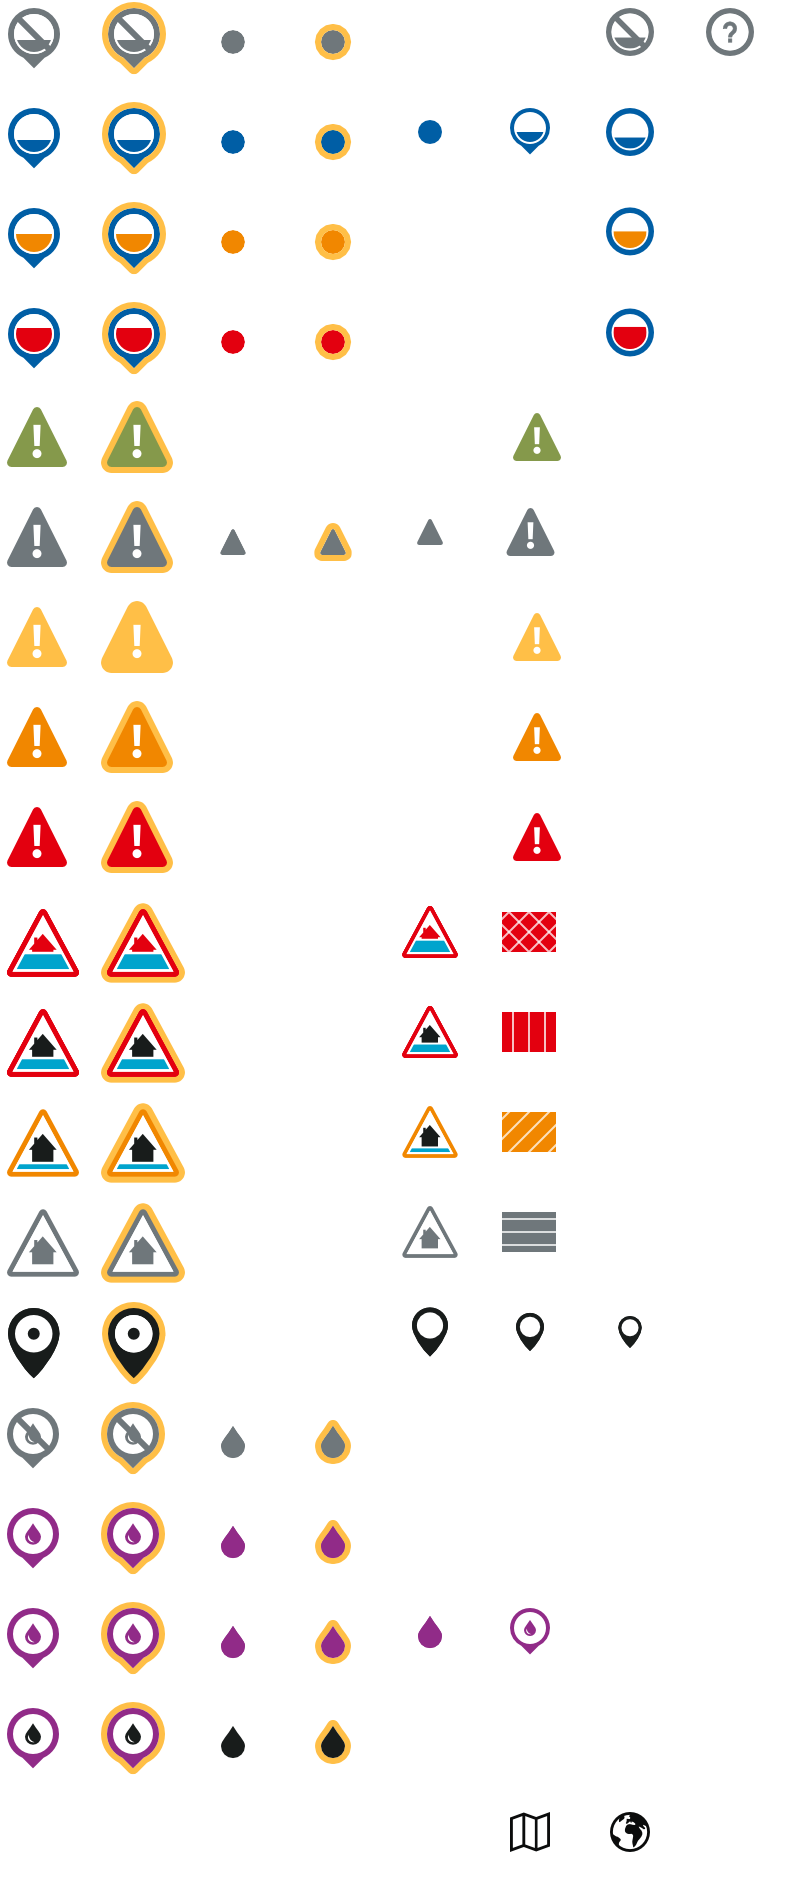
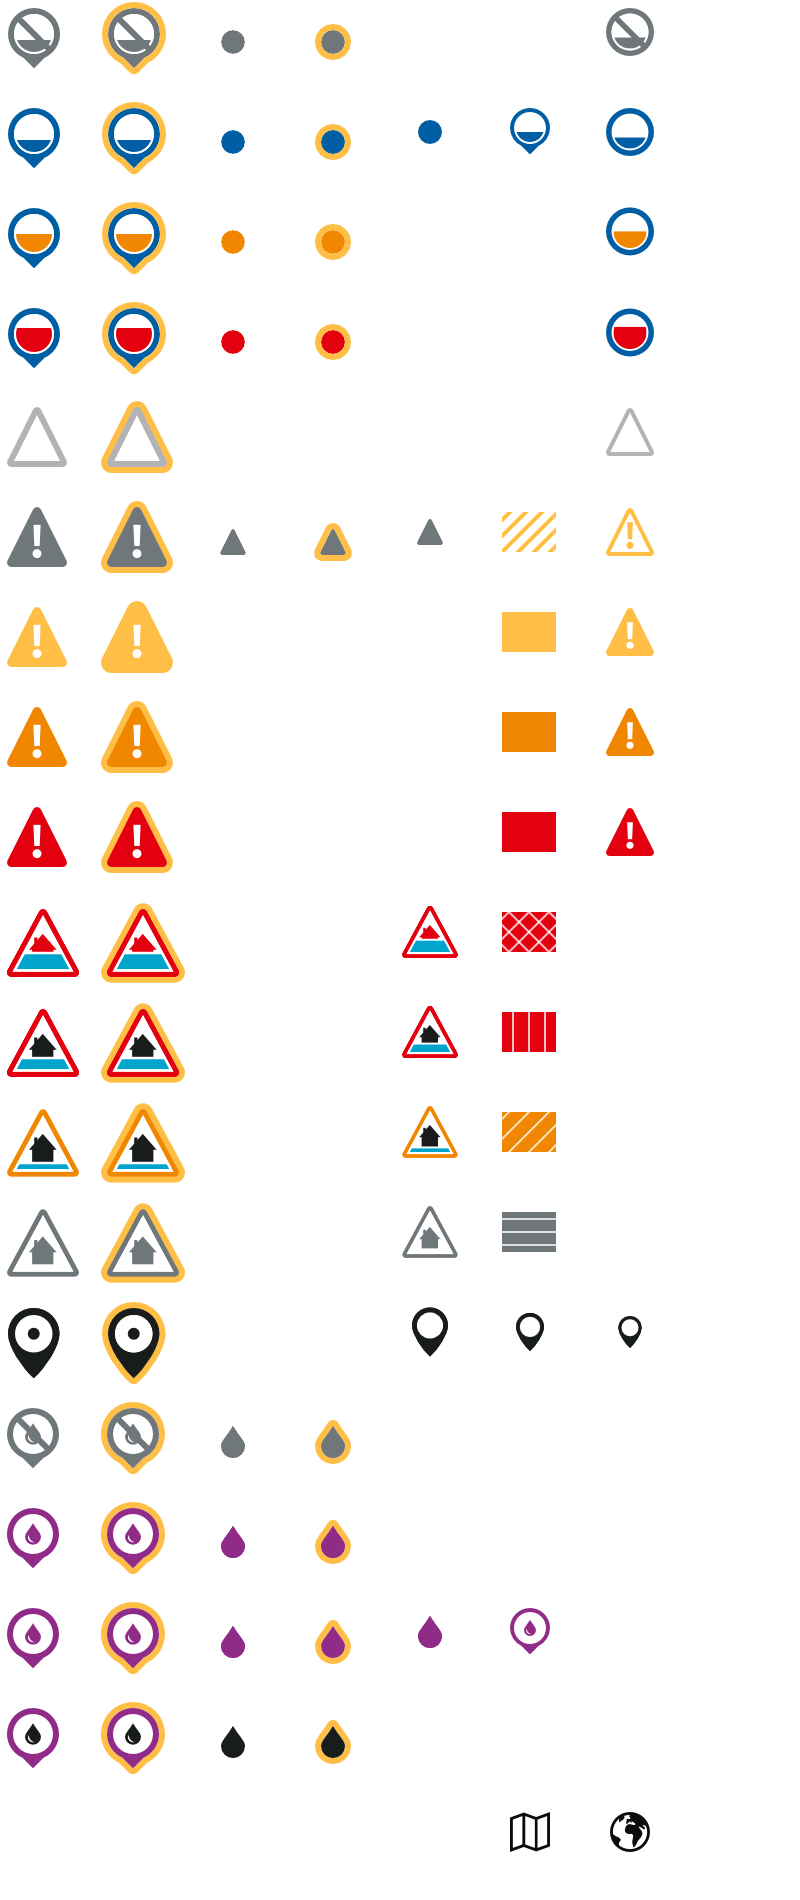
Outlook map features and key

diff --git a/server/public/static/javascripts/components/maps/outlook.js b/server/public/static/javascripts/components/maps/outlook.js
@@ -34,19 +34,44 @@
       featureProjection: 'EPSG:3857'
     })
 
+    var pattern = function () {
+      var canvas = document.createElement('canvas')
+      var dpr = window.devicePixelRatio || 1
+      canvas.width = 8 * dpr
+      canvas.height = 8 * dpr
+      var ctx = canvas.getContext('2d')
+      ctx.scale(dpr, dpr)
+      ctx.fillStyle = 'transparent'
+      ctx.fillRect(0, 0, 8, 8)
+      ctx.beginPath()
+      ctx.lineCap = 'square'
+      ctx.strokeStyle = '#ffbf47'
+      ctx.lineWidth = 2
+      ctx.moveTo(-2, 2)
+      ctx.lineTo(2, -2)
+      ctx.stroke()
+      ctx.moveTo(-2, 10)
+      ctx.lineTo(10, -2)
+      ctx.stroke()
+      ctx.moveTo(6, 10)
+      ctx.lineTo(10, 6)
+      ctx.stroke()
+      ctx.restore()
+      return ctx.createPattern(canvas, 'repeat')
+    }
+
     function styleFeature (feature) {
       // var strokeColour = '#6f777b'
       // var strokeWidth = 2
       var zIndex = feature.get('z-index')
       var lineDash = [2, 3]
-      var fillColour = 'rgba(133,153,75, 0.8)' // '#85994b'
-
+      var fillColour = pattern()
       if (feature.get('risk-level') === 2) {
-        fillColour = 'rgba(255,191,71, 0.8)' // '#ffbf47'
+        fillColour = '#ffbf47'
       } else if (feature.get('risk-level') === 3) {
-        fillColour = 'rgba(244,119,56, 0.8)' // '#F47738'
+        fillColour = '#F47738'
       } else if (feature.get('risk-level') === 4) {
-        fillColour = 'rgba(223,48,52, 0.8)' // '#df3034'
+        fillColour = '#df3034'
       }
 
       return new ol.style.Style({

diff --git a/server/public/static/templates/map-key-outlook.html b/server/public/static/templates/map-key-outlook.html
@@ -6,26 +6,26 @@
     <ul class="map-key-features__section">
       <li class="map-key-features__item-static">
         <span class="map-key-features__item-inner">
-          <span class="key-symbol" style="background-position: -256px -203px"></span>
-          Very low risk
+          <span class="key-symbol" style="background-position: -250px -250px"></span>
+          Minor concern
         </span>
       </li>
       <li class="map-key-features__item-static">
         <span class="map-key-features__item-inner">
-          <span class="key-symbol" style="background-position: -256px -303px"></span>
-          Low risk
+          <span class="key-symbol" style="background-position: -250px -300px"></span>
+          Moderate concern
         </span>
       </li>
       <li class="map-key-features__item-static">
         <span class="map-key-features__item-inner">
-          <span class="key-symbol" style="background-position: -256px -353px"></span>
-          Medium risk
+          <span class="key-symbol" style="background-position: -250px -350px"></span>
+          Significant concern
         </span>
       </li>
       <li class="map-key-features__item-static">
         <span class="map-key-features__item-inner">
-          <span class="key-symbol" style="background-position: -256px -403px"></span>
-          High risk
+          <span class="key-symbol" style="background-position: -250px -400px"></span>
+          Severe concern
         </span>
       </li>
     </ul>

diff --git a/client/sass/components/_map.scss b/client/sass/components/_map.scss
@@ -329,27 +329,21 @@
   background-size: 400px;
   background-repeat: no-repeat;
 }
+.map__outlook-control__icon--risk-level-0 {
+  background-position: -303px -203px;
+}
 .map__outlook-control__icon--risk-level-1 {
-  background-position: -256px -203px;
+  // background-position: -303px -253px;
+  background-position: -303px -303px;
 }
 .map__outlook-control__icon--risk-level-2 {
-  background-position: -256px -303px;
+  background-position: -303px -303px;
 }
 .map__outlook-control__icon--risk-level-3 {
-  background-position: -256px -353px;
+  background-position: -303px -353px;
 }
 .map__outlook-control__icon--risk-level-4 {
-  background-position: -256px -403px;
-}
-.map__outlook-control__icon--risk-level-0 {
-  background:none;
-  width:50px;
-  color:$govuk-text-colour;
-  line-height:1.1em;
-}
-.map__outlook-control__icon--risk-level-0:after {
-  content:'Very Low';
-  font-weight: normal;
+  background-position: -303px -403px;
 }
 
 //

diff --git a/server/views/station.html b/server/views/station.html
@@ -124,7 +124,7 @@
 <hr class="govuk-section-break govuk-section-break--visible govuk-!-margin-bottom-6">
 <div class="govuk-grid-row">
   <div class="govuk-grid-column-full">
-    <button class="defra-button-map govuk-!-margin-bottom-4">View map showing measurment location</button>
+    <button class="defra-button-map govuk-!-margin-bottom-4">View map of measurment location</button>
     <p class="govuk-text govuk-!-margin-bottom-6">
       Find out <a href="/how-river-sea-groundwater-levels-are-measured">how river, sea and groundwater levels are measured</a>.    
     </p>
